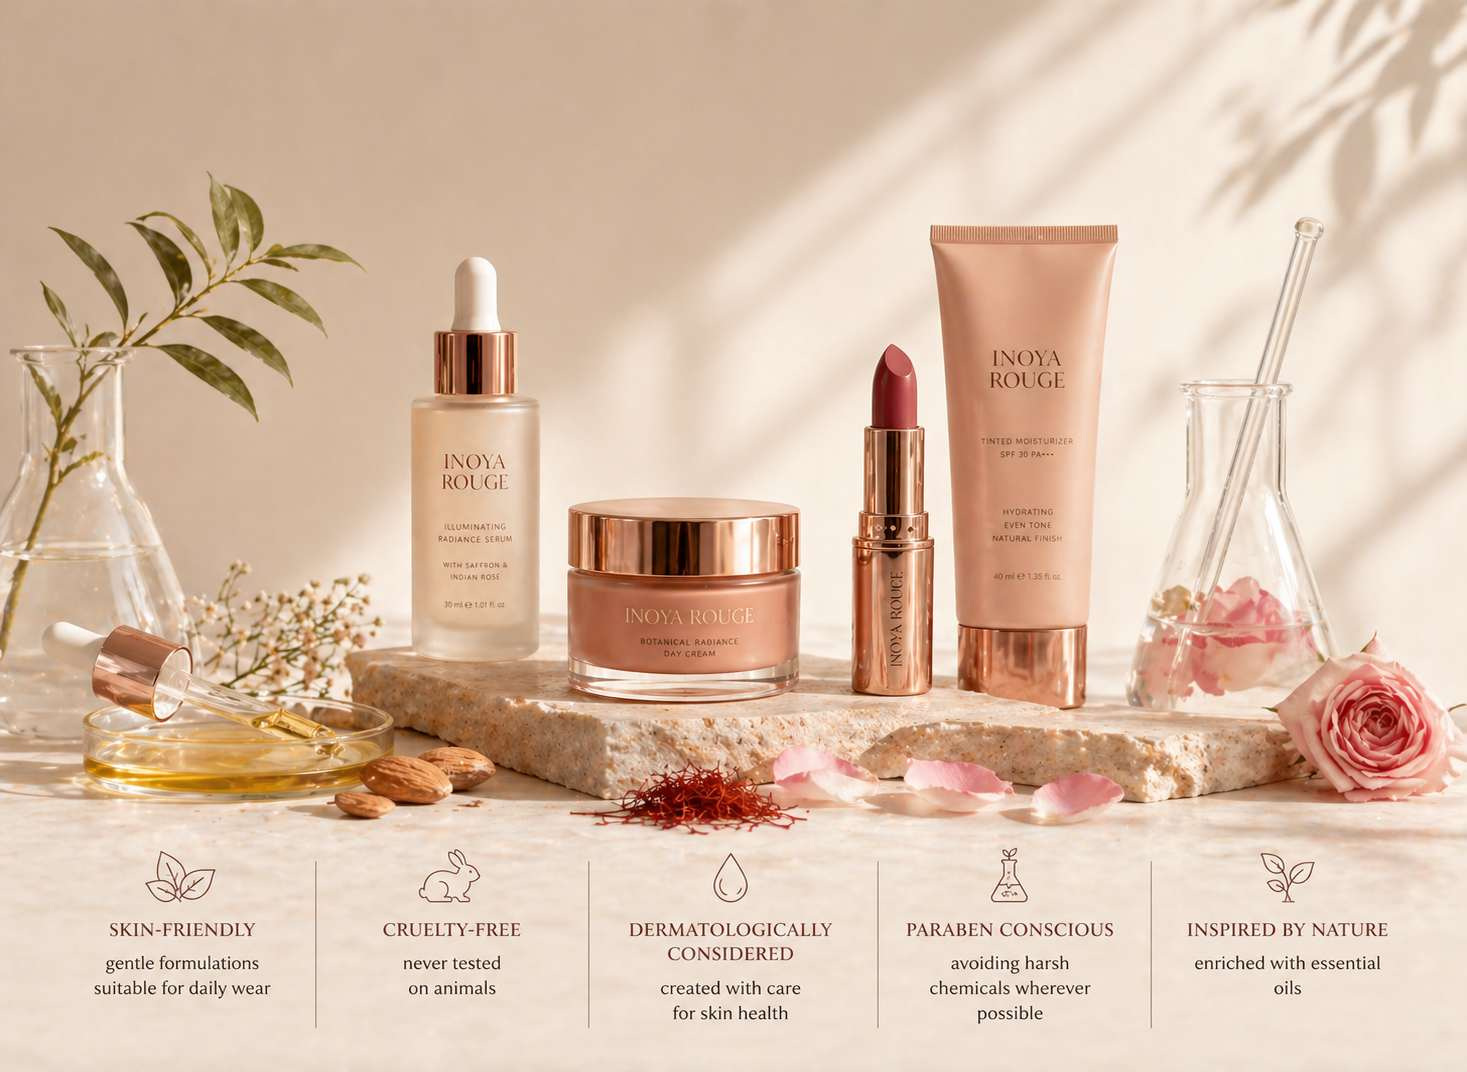
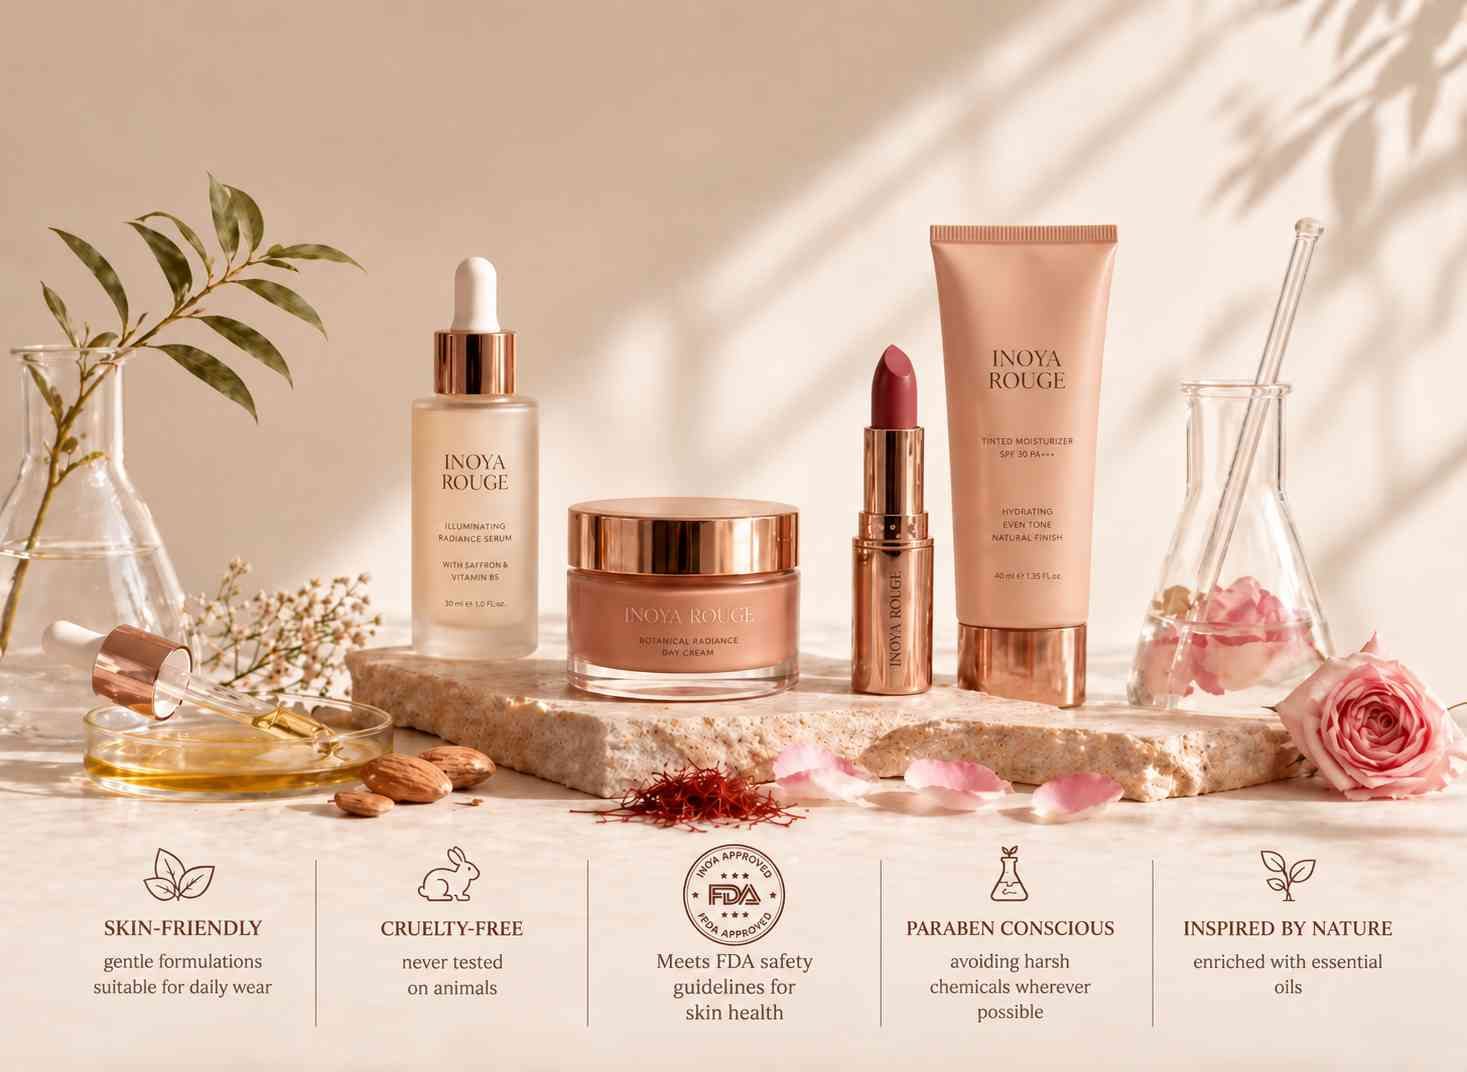
chore: update mobile images and minor content fixes across pages

diff --git a/src/app/(public)/contact/ContactClient.tsx b/src/app/(public)/contact/ContactClient.tsx
@@ -41,6 +41,13 @@ const contacts = [
         icon: <Mail className="w-6 h-6" strokeWidth={1.5} />,
     },
     {
+        label: 'Sales & Marketing',
+        value: 'inoyarouge@gmail.com',
+        href: 'mailto:inoyarouge@gmail.com',
+        note: 'For partnership & business inquiries',
+        icon: <Mail className="w-6 h-6" strokeWidth={1.5} />,
+    },
+    {
         label: 'Instagram',
         value: '@inoyarouge',
         href: 'https://www.instagram.com/inoyarouge/',
@@ -125,25 +132,36 @@ export default function ContactClient({
             </div>
 
             {/* Main Content Layout */}
-            <div className="max-w-5xl mx-auto px-4 md:px-8 lg:px-12 py-20">
-                <div className="grid grid-cols-1 md:grid-cols-3 divide-y md:divide-y-0 md:divide-x divide-gray-200">
+            <div className="max-w-6xl mx-auto px-4 md:px-8 lg:px-12 py-20">
+                <div className="grid grid-cols-1 lg:grid-cols-4 gap-x-6 divide-y lg:divide-y-0 divide-gray-200">
                     {contacts.map((c, idx) => (
                         <motion.div
                             key={c.label}
-                            className="py-10 md:px-8 flex flex-col items-center text-center group"
+                            className="py-10 md:px-4 flex flex-col items-center text-center group border-gray-200 lg:border-l lg:first:border-l-0"
                             initial={{ opacity: 0, y: 40 }}
                             whileInView={{ opacity: 1, y: 0 }}
                             viewport={{ once: true, margin: "-50px" }}
                             transition={{ duration: 0.6, delay: 0.1 * idx, ease: [0.16, 1, 0.3, 1] }}
                         >
-                            <div className="w-14 h-14 rounded-full border border-brand-rose/20 bg-brand-rose/5 flex items-center justify-center text-brand-rose mb-6 transition-transform duration-300 group-hover:scale-110">
-                                {c.icon}
-                            </div>
-                            <h2 className="font-serif text-2xl text-burgundy mb-4">{c.label}</h2>
                             {c.href ? (
                                 <Link
                                     href={c.href}
-                                    className="text-brand-rose font-medium hover:underline text-lg min-h-[28px] inline-flex items-center"
+                                    aria-label={c.label}
+                                    className="w-14 h-14 rounded-full border border-brand-rose/20 bg-brand-rose/5 flex items-center justify-center text-brand-rose mb-6 transition-transform duration-300 group-hover:scale-110"
+                                    {...(c.label === 'Instagram' ? { target: '_blank', rel: 'noopener noreferrer' } : {})}
+                                >
+                                    {c.icon}
+                                </Link>
+                            ) : (
+                                <div className="w-14 h-14 rounded-full border border-brand-rose/20 bg-brand-rose/5 flex items-center justify-center text-brand-rose mb-6 transition-transform duration-300 group-hover:scale-110">
+                                    {c.icon}
+                                </div>
+                            )}
+                            <h2 className="font-serif text-2xl text-burgundy mb-4 min-h-[64px] flex items-center justify-center leading-tight">{c.label}</h2>
+                            {c.href ? (
+                                <Link
+                                    href={c.href}
+                                    className="text-brand-rose font-medium hover:underline text-lg min-h-[28px] inline-flex items-center break-all"
                                     {...(c.label === 'Instagram' ? { target: '_blank', rel: 'noopener noreferrer' } : {})}
                                 >
                                     {c.value}

diff --git a/src/components/public/TrustBadges.tsx b/src/components/public/TrustBadges.tsx
@@ -16,7 +16,7 @@ export default function TrustBadges() {
   return (
     <section className="bg-[#FFF3EE] border-t border-burgundy/10 py-16 md:py-24 w-full overflow-hidden">
       <div className="site-container flex flex-col items-center justify-center">
-        <h2 className="px-6 text-[#720B0B] font-sans text-[clamp(24px,3vw,32px)] 2xl:text-[38px] text-center max-w-[600px] leading-[1.3] mb-12 md:mb-16 font-medium tracking-wide">
+        <h2 className="px-6 text-[#7A0000] font-sans text-[clamp(24px,3vw,32px)] 2xl:text-[38px] text-center max-w-[600px] leading-[1.3] mb-12 md:mb-16 font-medium tracking-wide">
           Beauty should never come <br className="md:hidden" />at the cost of your skin.
         </h2>
 

diff --git a/src/app/(public)/our-team/TeamSection.tsx b/src/app/(public)/our-team/TeamSection.tsx
@@ -17,7 +17,7 @@ const team = [
   },
   {
     name: "Mrs. Komal Bajaj Bhotika",
-    role: "Financial Consultant",
+    role: "Financial Consultant & Marketing Lead",
     bio: "Komal Bajaj Bhotika is a Chartered Accountant and Company Secretary serving as the Marketing Lead and Chief Financial Advisor for Inoya Rouge. Bringing over a decade of financial expertise, she manages capital allocation, pricing structures, and financial forecasting to drive profitable growth. Simultaneously, she leads market expansion, digital strategy, and customer acquisition to build brand equity. Her balance of strict financial discipline and market-driven strategy ensures every creative initiative scales sustainably.",
   },
   {

diff --git a/src/components/public/ShippingDeliveryContent.tsx b/src/components/public/ShippingDeliveryContent.tsx
@@ -34,7 +34,7 @@ const sections = [
         icon: <CreditCard className="w-6 h-6 text-brand-rose" strokeWidth={1.5} />,
         body: (
             <div className="space-y-4">
-                <p>Shipping charges, if applicable, will be displayed during the checkout process before completing the purchase.</p>
+                <p>Applicable shipping charges, if any, will be clearly displayed or communicated during the purchase process before the order is completed.</p>
             </div>
         )
     },

diff --git a/src/app/(public)/about-us/page.tsx b/src/app/(public)/about-us/page.tsx
@@ -31,7 +31,7 @@ const productPillars = [
   },
   {
     icon: '/images/badges/fda-approved.svg',
-    label: 'Dermatologically Considered: created with care for skin health',
+    label: 'Products meets FDA safety guidelines for cosmetic ingredients',
     width: 32,
     height: 32,
   },

diff --git a/UPDATES.md b/UPDATES.md
@@ -1,3 +1,86 @@
+## 2026-09-14 — Update mobile hero image asset (4th time, new sketch/watercolor style)
+
+**Status:** DONE
+
+New mobile hero image supplied as `public/images/mobile images/a (2).jpeg`
+(834x1885, watercolor/sketch illustration style instead of the previous
+photorealistic image). Copied its content into `mobile hero.jpeg` (the
+filename `src/app/(public)/page.tsx` already references) and deleted the
+stray `a (2).jpeg` file. No code changes needed for the swap itself.
+
+### Files touched
+- `public/images/mobile images/mobile hero.jpeg` — new image asset
+- `public/images/mobile images/a (2).jpeg` — kept (restored after being
+  deleted in error; not a temp file, was named intentionally)
+
+### Note
+The working copy of `mobile hero.jpeg` found at the start of this task was
+actually a stale/reverted older version (matched the file from two updates
+ago, not the most recently pushed one) — confirmed the real new asset was
+the untracked `a (2).jpeg` before swapping.
+
+---
+
+## 2026-09-14 — Add sales/marketing email to contact page
+
+**Status:** DONE
+
+Added a fourth contact entry on the contact page for sales/marketing
+inquiries (`inoyarouge@gmail.com`), alongside the existing Phone, Email
+(customer care), and Instagram entries. Updated the contact grid from
+`md:grid-cols-3` to a mobile-first `grid-cols-1 lg:grid-cols-4` with
+dividers, so 4 items lay out cleanly at all breakpoints.
+
+Follow-up fix: initial layout broke on desktop because the "Sales &
+Marketing" heading wrapped to two lines, misaligning it with the other
+single-line headings. Fixed by giving each heading a fixed `min-h-[64px]`
+so all four columns align regardless of label length, added `gap-x-6` for
+even spacing between columns, and widened the container to `max-w-6xl`.
+
+### Files touched
+- `src/app/(public)/contact/ContactClient.tsx`
+
+---
+
+## 2026-09-14 — Make contact icon circles clickable
+
+**Status:** DONE
+
+The icon circles (Phone, Email, Sales & Marketing, Instagram) on the
+contact page were decorative-only; only the text link below each was
+clickable. Wrapped each icon circle in the same `Link`/href as its label
+(with `aria-label` for accessibility) so clicking the icon also triggers
+the call/email/Instagram action.
+
+### Files touched
+- `src/app/(public)/contact/ContactClient.tsx`
+
+---
+
+## 2026-09-14 — TrustBadges heading color change
+
+**Status:** DONE
+
+`src/components/public/TrustBadges.tsx:20` — "Beauty should never come at the
+cost of your skin." heading color changed from `#720B0B` to `#7A0000`.
+
+---
+
+## 2026-09-14 — Update mobile hero image asset (again)
+
+**Status:** DONE
+
+Replaced `public/images/mobile images/mobile hero.jpeg` with another updated
+version (834x1885, portrait, 92KB). Same filename/path as before, so no code
+changes needed — `src/app/(public)/page.tsx:146` already references this exact
+path for the mobile hero `<Image>`.
+
+### Verified
+- New file confirmed as valid JPEG at 834x1885.
+- No other files reference this image path.
+
+---
+
 ## 2026-09-14 — Subtle text-shadow on shop banner subtext (mobile only)
 
 **Status:** DONE
